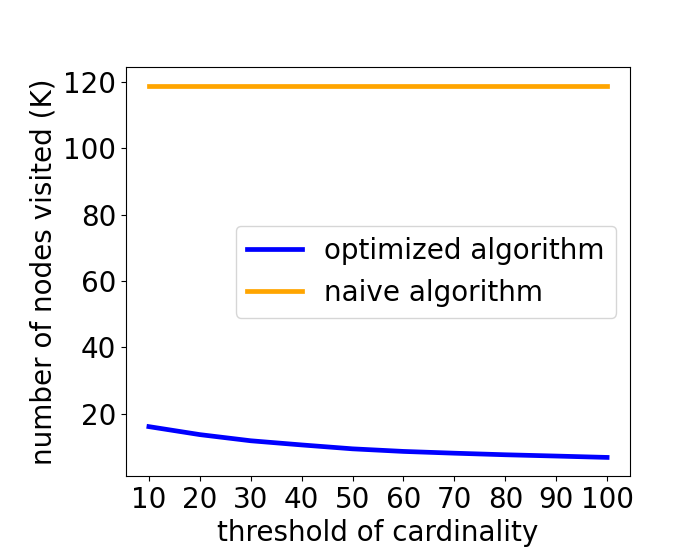
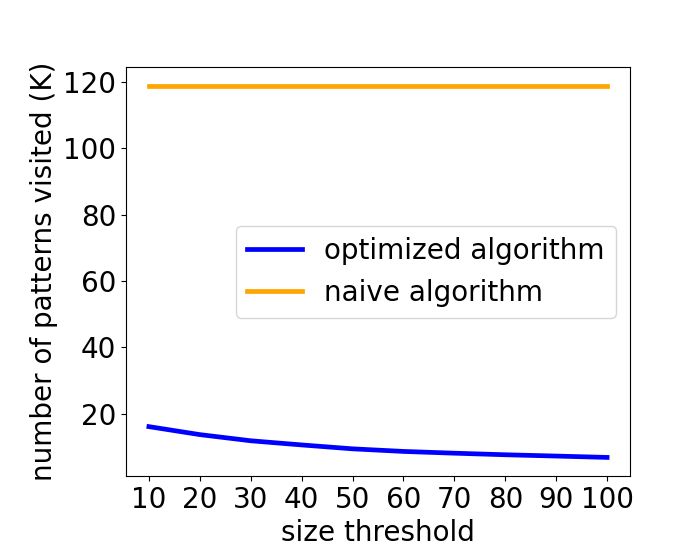
general FP, compas, thc

Changed region(s): [[0.03, 0.1214, 0.09, 0.85], [0.3, 0.9107, 0.78, 0.9714]]

diff --git a/Coding/Experiments/General_FP/CompasData/Thc_0_20210521.py b/Coding/Experiments/General_FP/CompasData/Thc_0_20210521.py
@@ -156,7 +156,7 @@ for n in range(len(Thc_list)):
 plt.plot(Thc_list, execution_time1, label="optimized algorithm", color='blue', linewidth = 3.4)
 plt.plot(Thc_list, execution_time2, label="naive algorithm", color='orange', linewidth = 3.4)
 
-plt.xlabel('threshold of cardinality')
+plt.xlabel('size threshold')
 plt.ylabel('execution time (s)')
 plt.xticks(Thc_list)
 plt.subplots_adjust(bottom=0.15, left=0.18)
@@ -168,8 +168,8 @@ plt.show()
 fig, ax = plt.subplots()
 plt.plot(Thc_list, num_calculation1, label="optimized algorithm", color='blue', linewidth = 3.4)
 plt.plot(Thc_list, num_calculation2, label="naive algorithm", color='orange', linewidth = 3.4)
-plt.xlabel('threshold of cardinality')
-plt.ylabel('number of nodes visited (K)')
+plt.xlabel('size threshold')
+plt.ylabel('number of patterns visited (K)')
 ax.yaxis.set_major_formatter(FuncFormatter(thousands_formatter))
 
 

diff --git a/Coding/Experiments/General_FP/CompasData/Thc_1_20210629.py b/Coding/Experiments/General_FP/CompasData/Thc_1_20210629.py
@@ -166,7 +166,7 @@ for n in range(len(Thc_list)):
 plt.plot(Thc_list, execution_time1, label="optimized algorithm", color='blue', linewidth = 3.4)
 plt.plot(Thc_list, execution_time2, label="naive algorithm", color='orange', linewidth = 3.4)
 
-plt.xlabel('threshold of cardinality')
+plt.xlabel('size threshold')
 plt.ylabel('execution time (s)')
 plt.xticks(Thc_list)
 plt.subplots_adjust(bottom=0.15, left=0.18)
@@ -178,8 +178,8 @@ plt.show()
 fig, ax = plt.subplots()
 plt.plot(Thc_list, num_calculation1, label="optimized algorithm", color='blue', linewidth = 3.4)
 plt.plot(Thc_list, num_calculation2, label="naive algorithm", color='orange', linewidth = 3.4)
-plt.xlabel('threshold of cardinality')
-plt.ylabel('number of nodes visited (K)')
+plt.xlabel('size threshold')
+plt.ylabel('number of patterns visited (K)')
 ax.yaxis.set_major_formatter(FuncFormatter(thousands_formatter))
 
 
